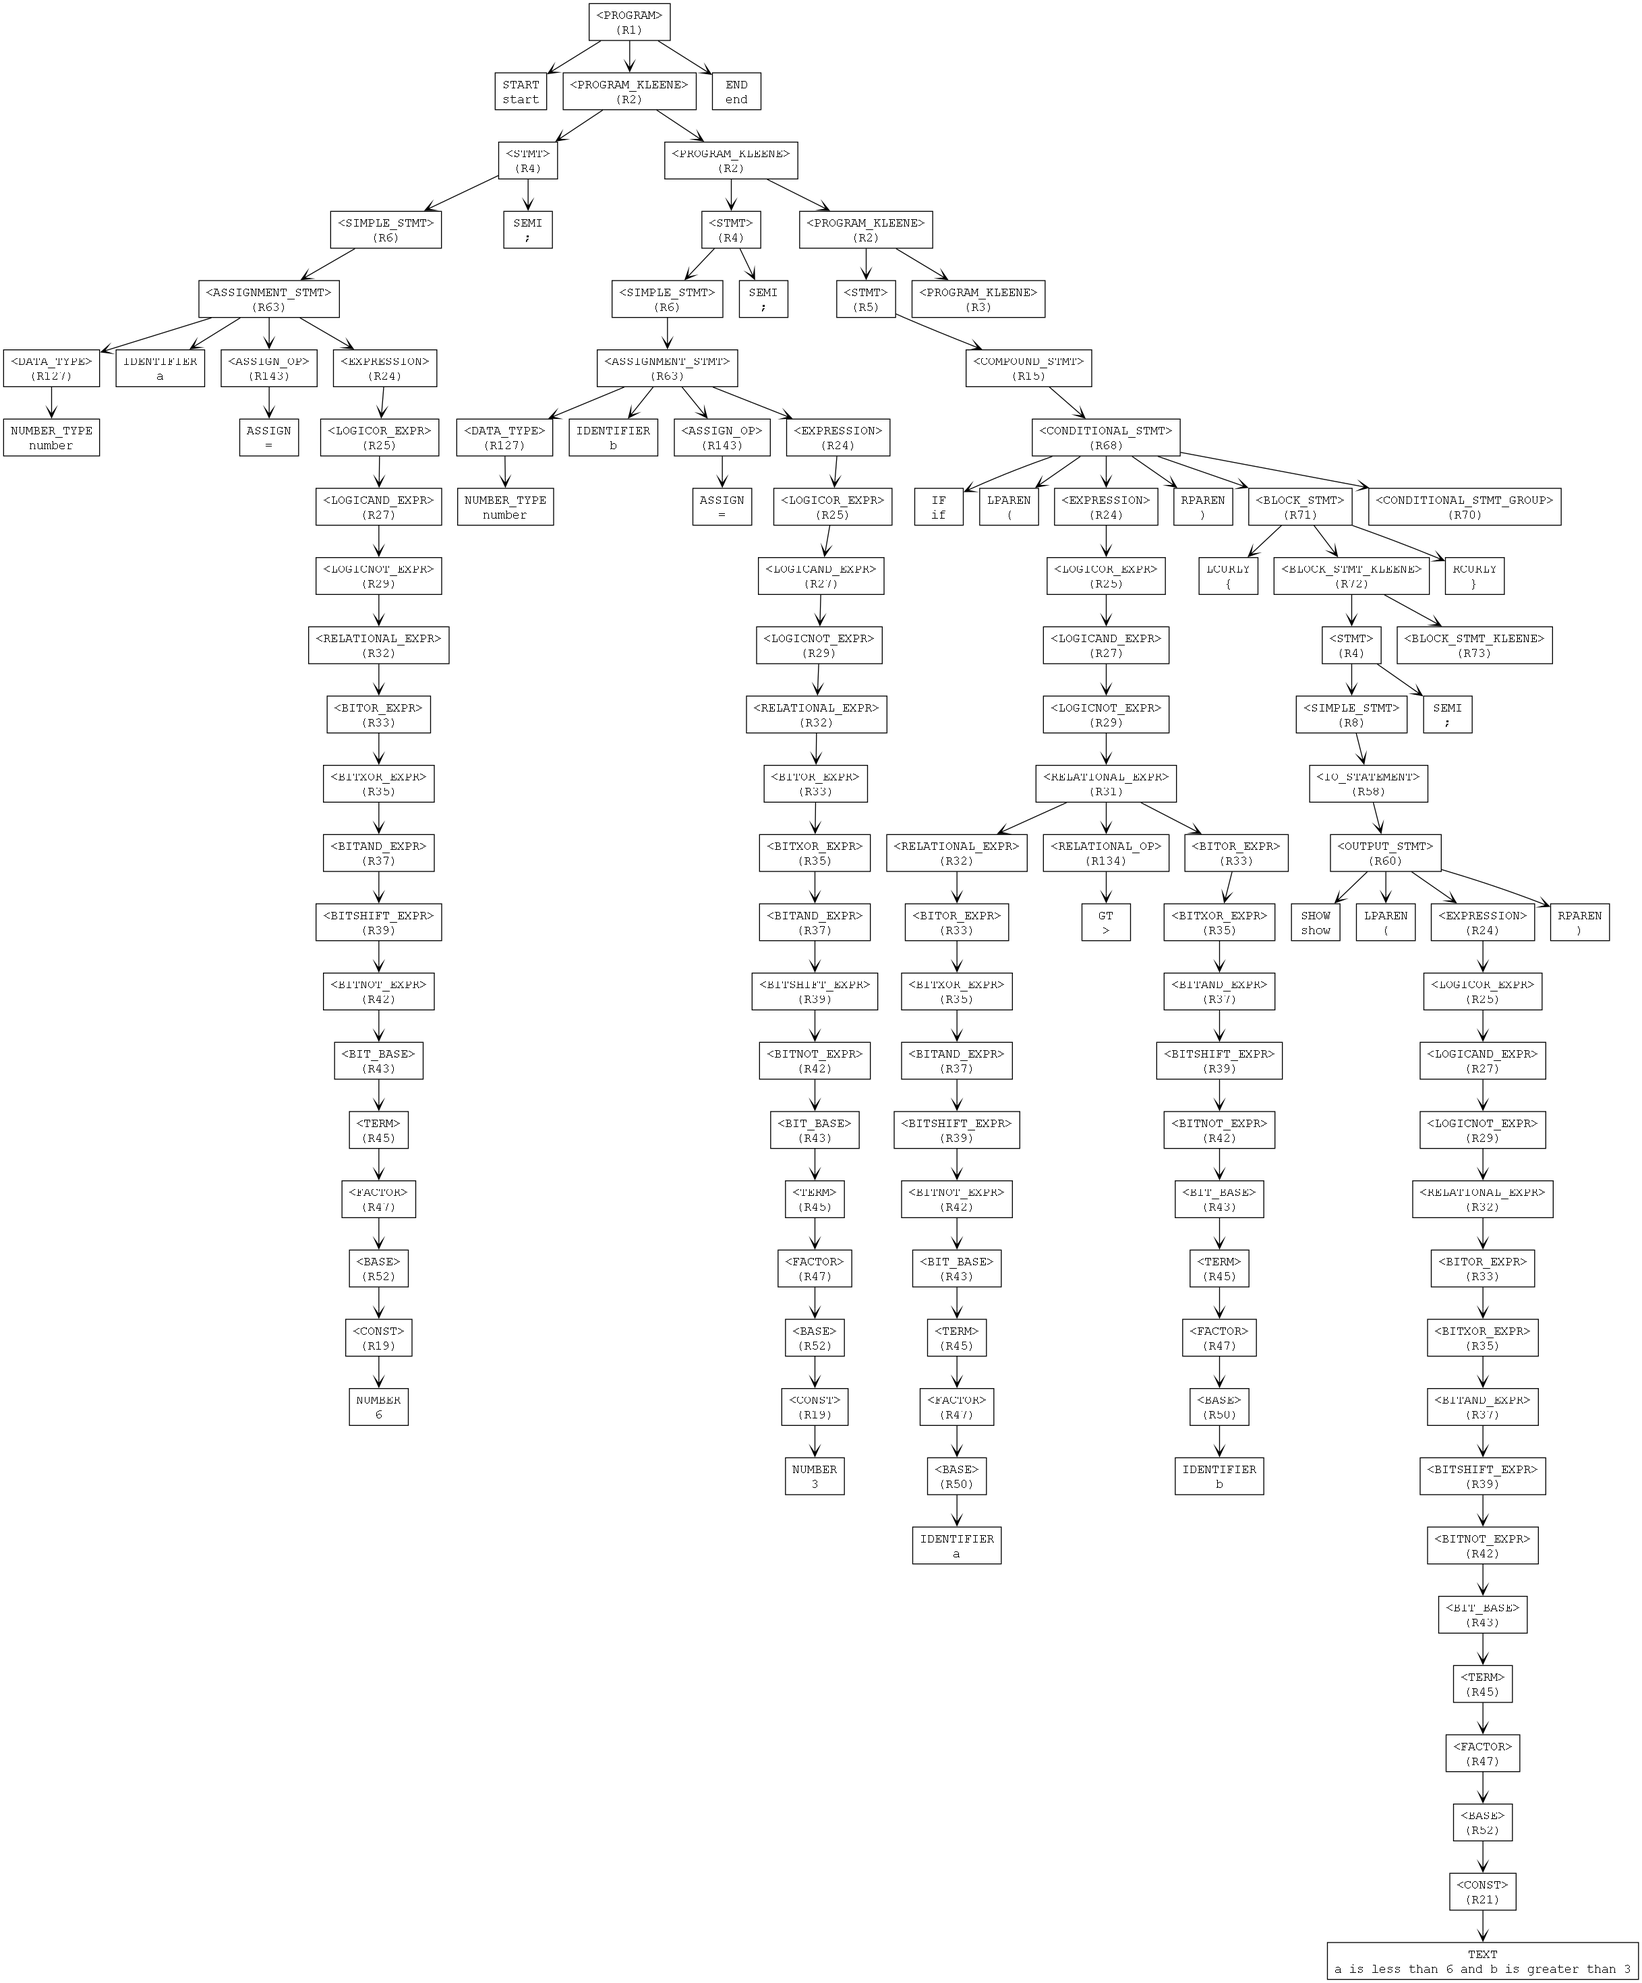
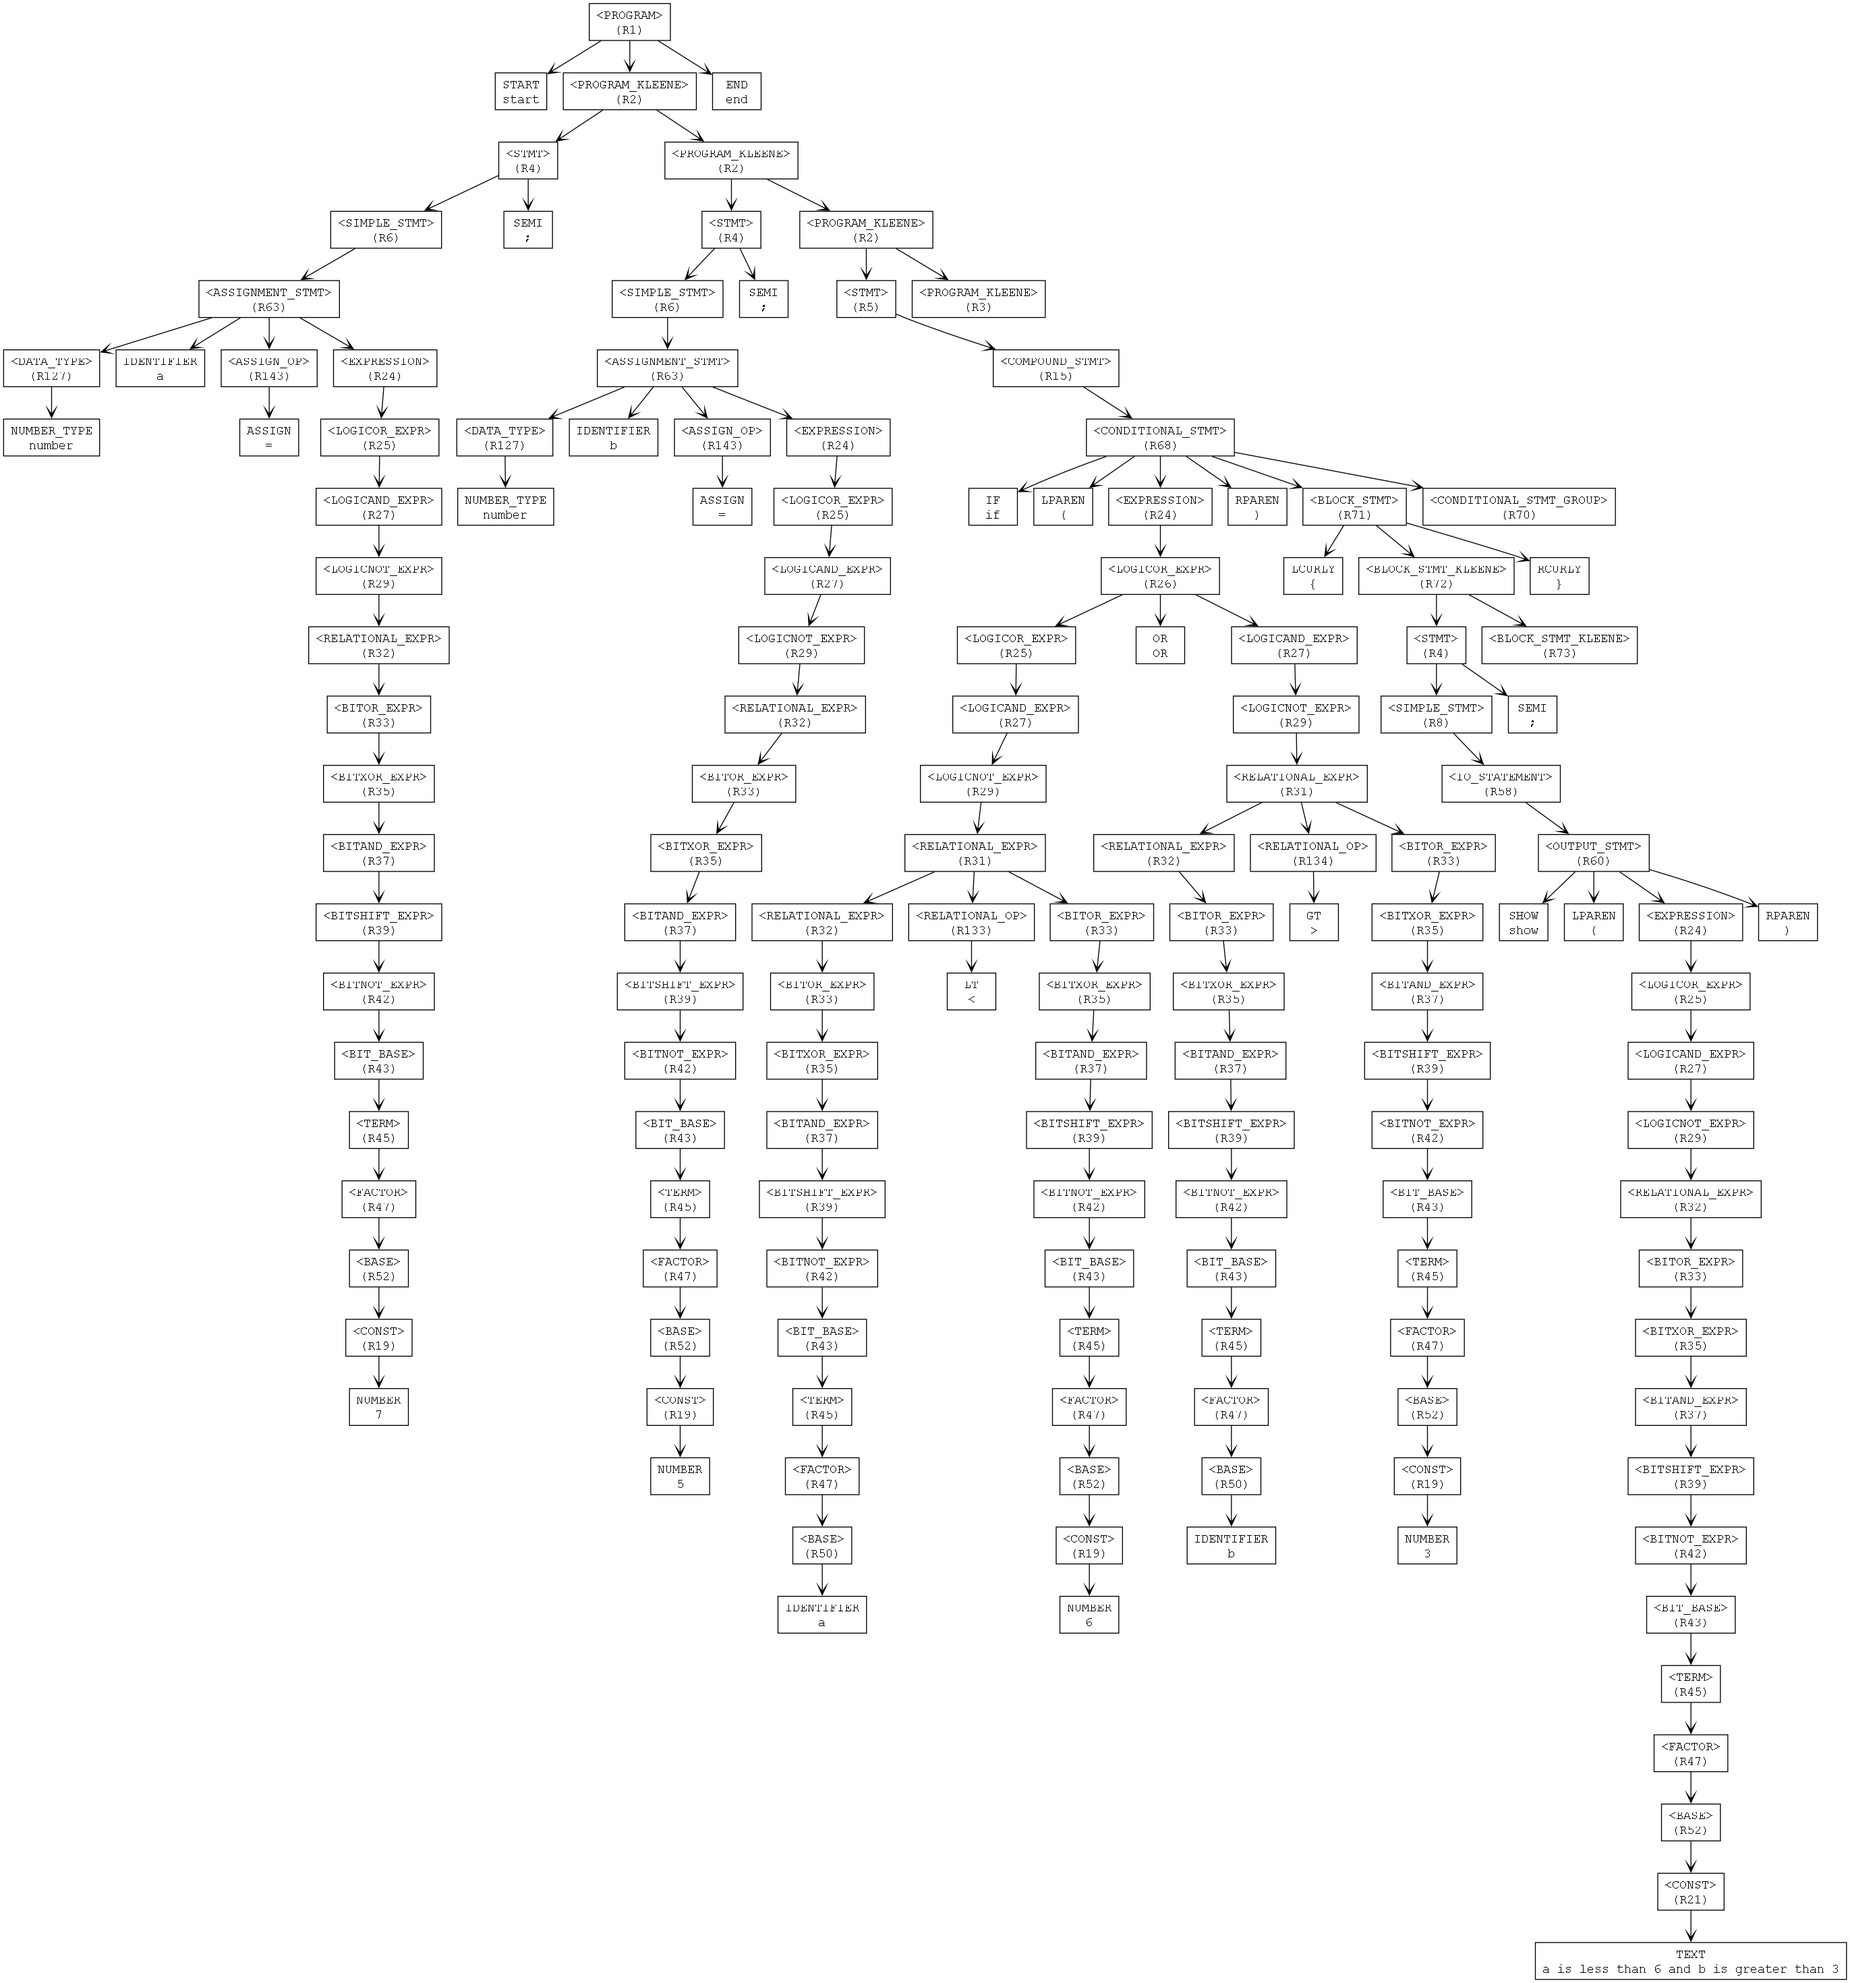
conditional update

diff --git a/project/interpreterComponents/Executor.java b/project/interpreterComponents/Executor.java
@@ -471,7 +471,7 @@ public class Executor {
     
         for (ASTNode child : node.getChildren()) {
             switch (child.getType()) {
-                case "GT", "LT", "GTE", "LTE", "GEQ", "LEQ", "EQ", "NEQ", "RELATIONAL_EXPR","TRUE","FALSE","IDENTIFIER":
+                case "GT", "LT", "GTE", "LTE", "GEQ", "LEQ", "EQ", "NEQ", "RELATIONAL_EXPR","TRUE","FALSE","IDENTIFIER", "AND", "OR", "NOT":
                     conditionNode = child;
                     break;
                 case "BLOCK_STMT":
